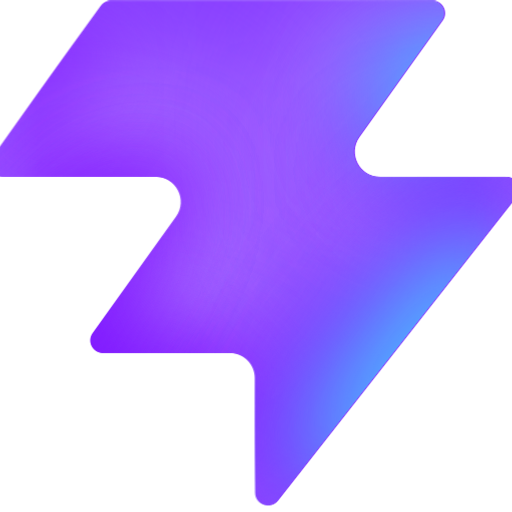
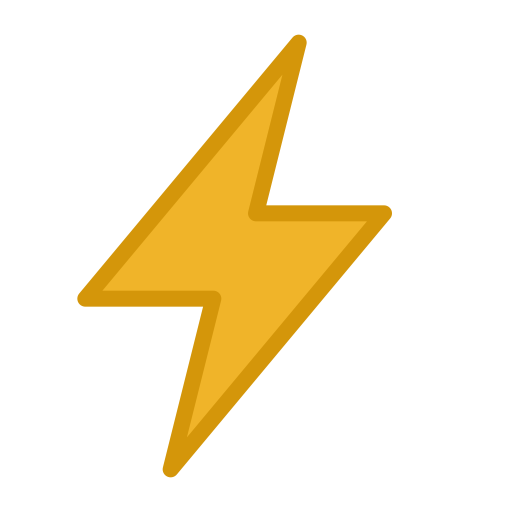
Replace purple lightning with golden bolt and fix theme color
Swap ornate purple SVG favicon for a clean golden lightning bolt
(#F0B429). Reset theme-color from purple to the app's dark
background (#0a0e14) so the status bar stays dark.

diff --git a/index.html b/index.html
@@ -9,7 +9,7 @@
     <meta name="apple-mobile-web-app-capable" content="yes" />
     <meta name="apple-mobile-web-app-status-bar-style" content="black-translucent" />
     <meta name="apple-mobile-web-app-title" content="Options" />
-    <meta name="theme-color" content="#863bff" />
+    <meta name="theme-color" content="#0a0e14" />
     <title>Options</title>
   </head>
   <body>